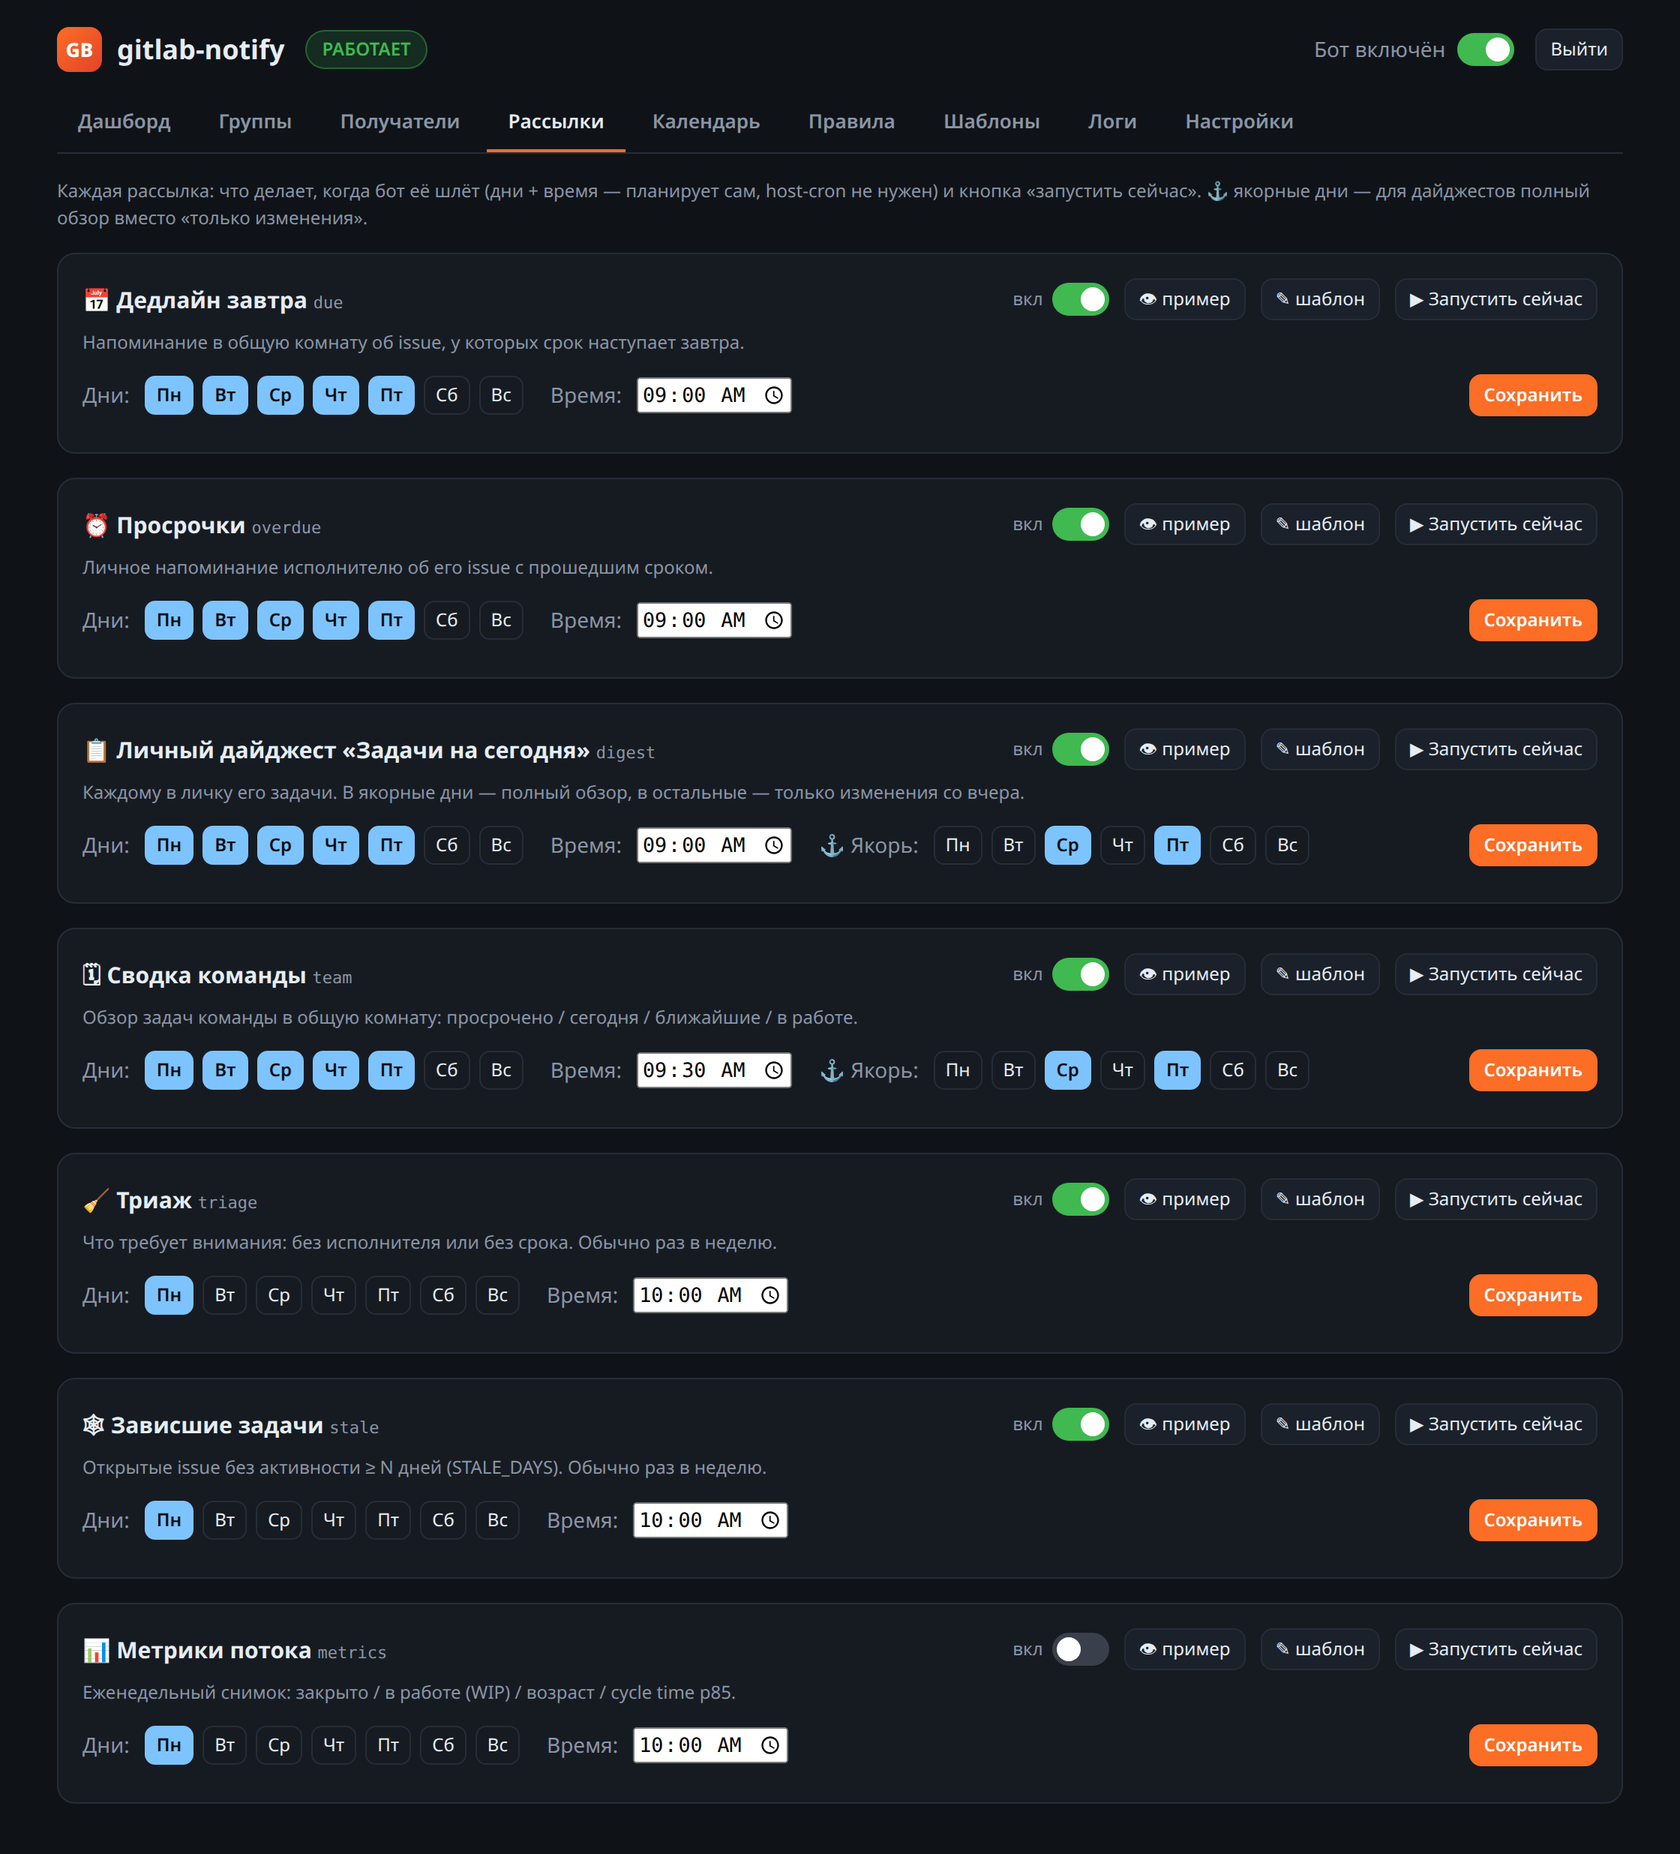
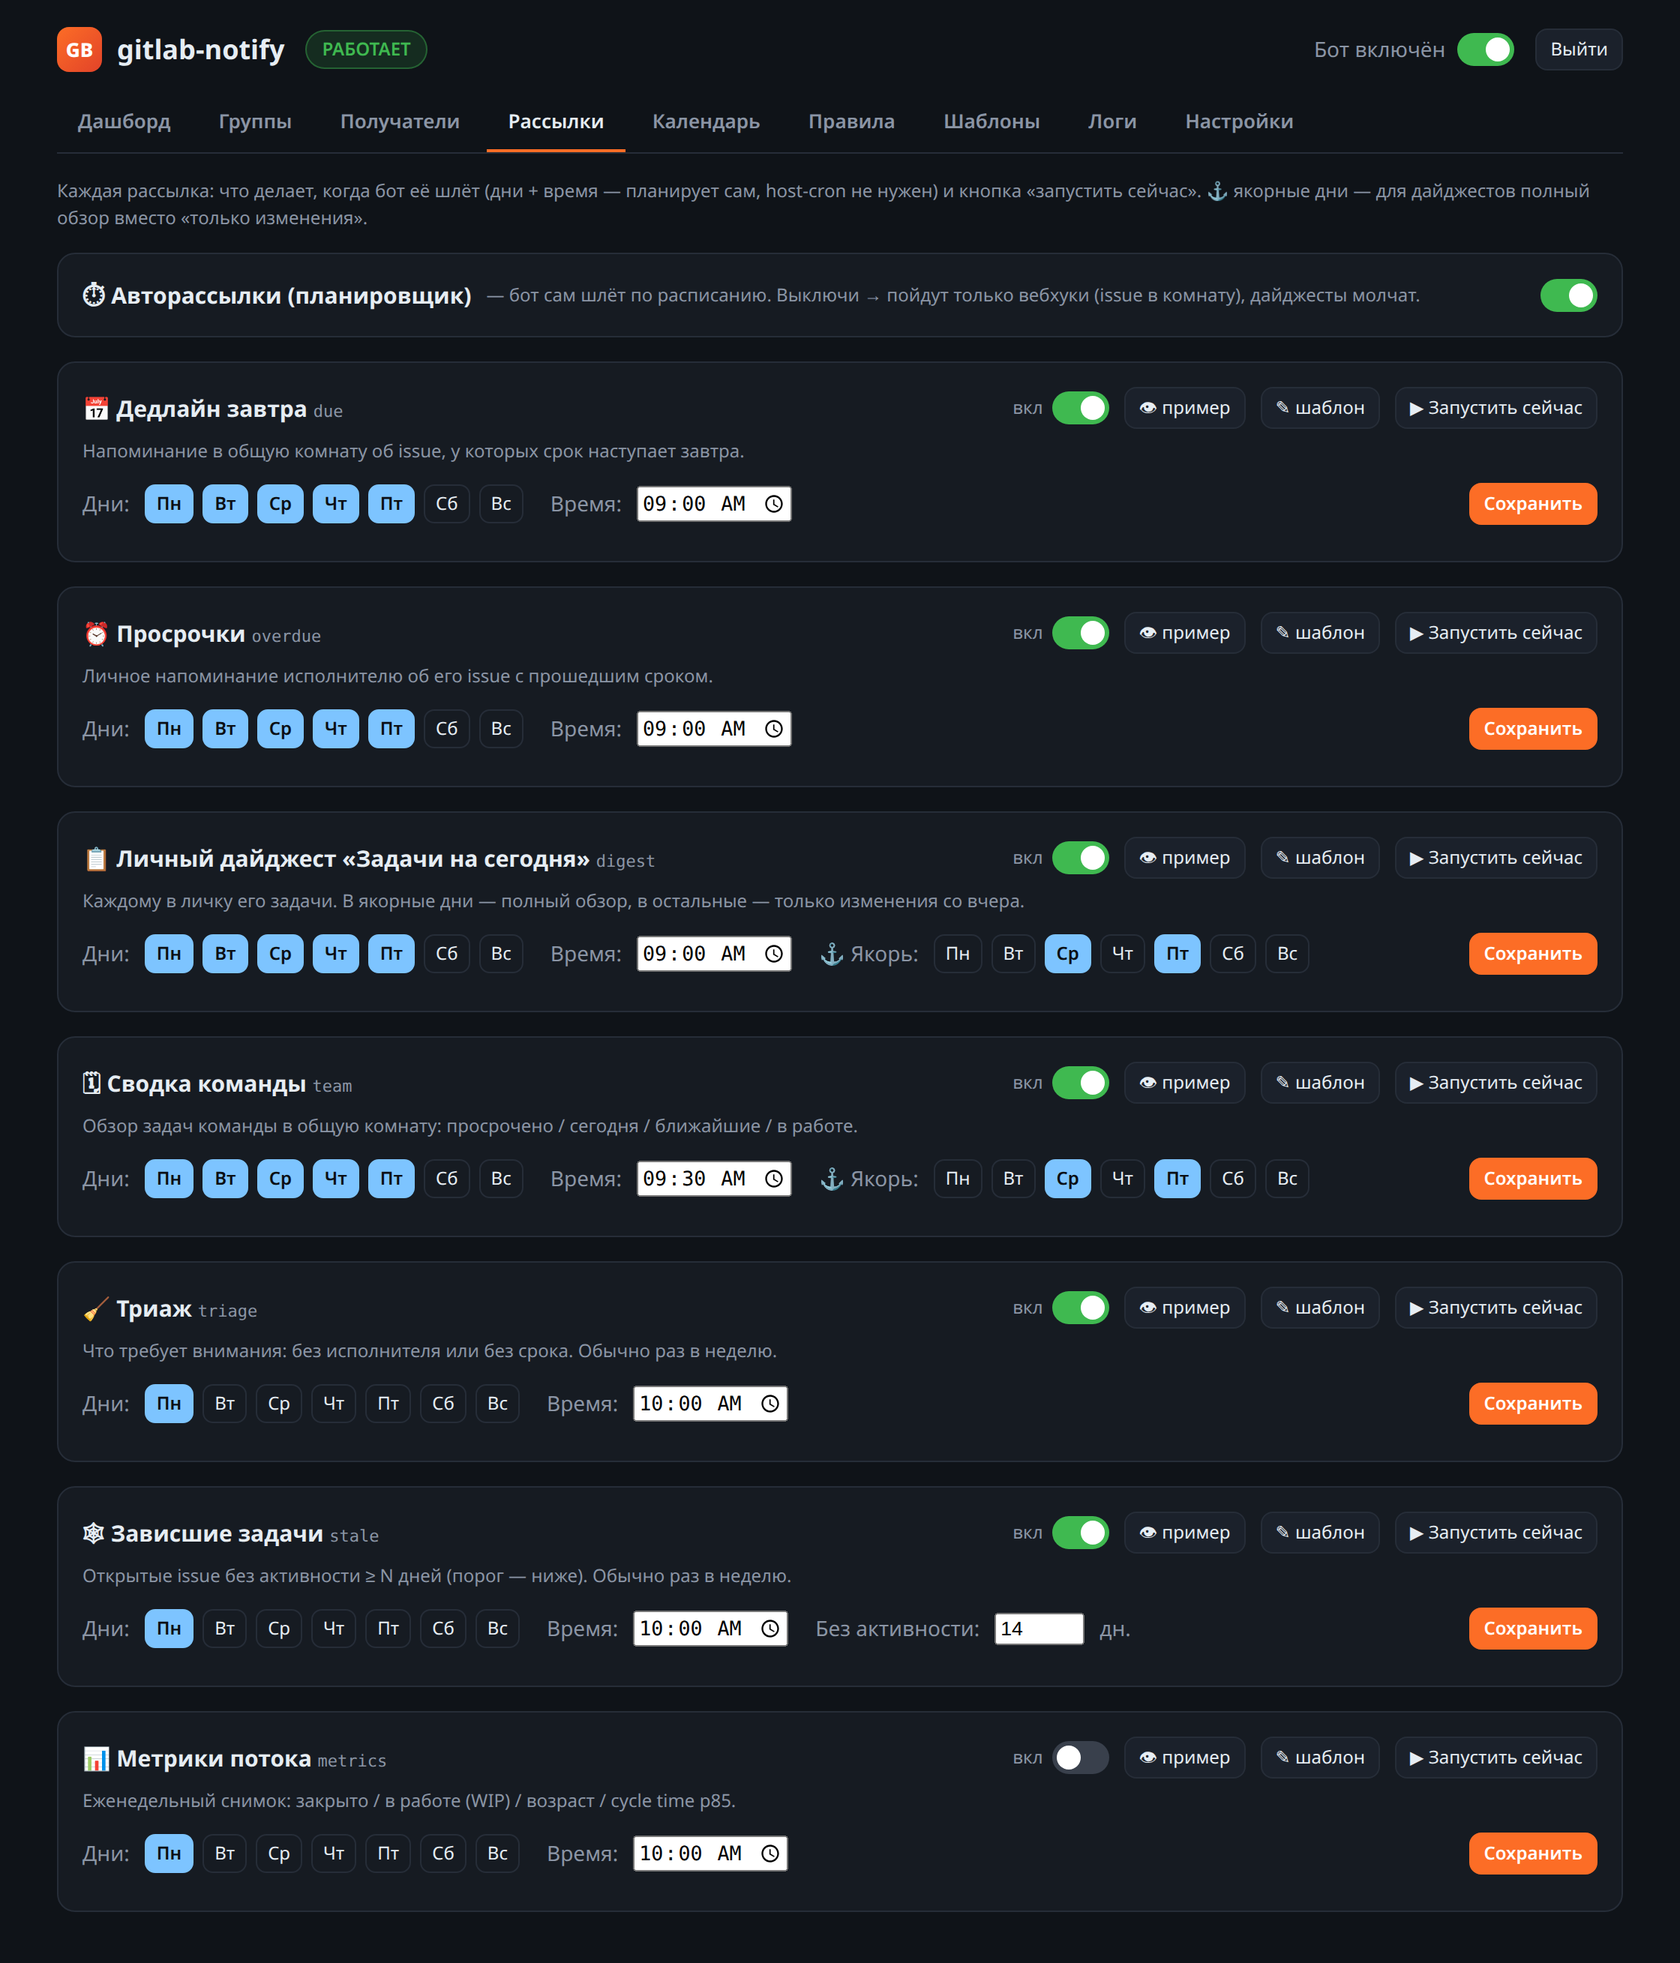
feat(gitlab-notify): минимизировать env — расписание/планировщик/stale в админку
env теперь = только bootstrap + инфра: ADMIN_PASSWORD, STATE_DB, BIND_ADDR, TZ,
LOG_LEVEL (+ опциональный one-time seed подключений). Всё остальное в БД/админке.

- DIGEST_ANCHOR_DAYS/WEEKLY_DAY/SKIP_WEEKENDS/HOLIDAYS — убраны (мёртвые seed'ы;
  расписание давно per-pass, праздники в «Календаре»). _schedule_defaults удалён,
  дефолты встроены в Settings.
- SCHEDULER_ENABLED → тумблер «Авторассылки» в админке (settings.scheduler_on);
  планировщик стартует всегда, тик уважает флаг + kill switch.
- STALE_DAYS → поле «Без активности N дн.» на карточке stale (pass.days_idle).

env-примеры и compose/UPGRADE приведены к новому минимуму.

diff --git a/services/gitlab-notify/admin_html.py b/services/gitlab-notify/admin_html.py
@@ -128,6 +128,10 @@ HTML = r"""<!doctype html>
   <!-- Рассылки (расписание + триггеры) -->
   <div class="view" data-v="sched">
     <p class="hint" style="margin:0 0 14px">Каждая рассылка: что делает, когда бот её шлёт (дни + время — планирует сам, host-cron не нужен) и кнопка «запустить сейчас». ⚓ якорные дни — для дайджестов полный обзор вместо «только изменения».</p>
+    <div class="card"><div class="row" style="margin:0"><b style="font-size:15px">⏱ Авторассылки (планировщик)</b>
+      <span class="mut" style="font-size:12px">— бот сам шлёт по расписанию. Выключи → пойдут только вебхуки (issue в комнату), дайджесты молчат.</span>
+      <span class="spacer"></span>
+      <span class="switch"><input type="checkbox" id="schedOn" onchange="api('/global','POST',{scheduler_on:this.checked}).then(()=>toast(this.checked?'Авторассылки включены':'Авторассылки выключены'))"><span class="slider"></span></span></div></div>
     <div id="passCards"></div>
   </div>
 
@@ -247,7 +251,7 @@ const PASS_INFO={
   digest:{icon:'📋',title:'Личный дайджест «Задачи на сегодня»',tpl:'digest_personal',desc:'Каждому в личку его задачи. В якорные дни — полный обзор, в остальные — только изменения со вчера.'},
   team:{icon:'🗓',title:'Сводка команды',tpl:'digest_team',desc:'Обзор задач команды в общую комнату: просрочено / сегодня / ближайшие / в работе.'},
   triage:{icon:'🧹',title:'Триаж',tpl:'triage',desc:'Что требует внимания: без исполнителя или без срока. Обычно раз в неделю.'},
-  stale:{icon:'🕸',title:'Зависшие задачи',tpl:'stale',desc:'Открытые issue без активности ≥ N дней (STALE_DAYS). Обычно раз в неделю.'},
+  stale:{icon:'🕸',title:'Зависшие задачи',tpl:'stale',desc:'Открытые issue без активности ≥ N дней (порог — ниже). Обычно раз в неделю.'},
   metrics:{icon:'📊',title:'Метрики потока',tpl:'metrics',desc:'Еженедельный снимок: закрыто / в работе (WIP) / возраст / cycle time p85.'},
 };
 let UF='all';
@@ -299,6 +303,7 @@ async function load(){
   $('statusPill').className='pill '+(s.enabled?'on':'off');
   $('statusPill').textContent=s.enabled?'РАБОТАЕТ':'ВЫКЛЮЧЕН';
   $('killSwitch').checked=s.enabled;
+  $('schedOn').checked=s.scheduler_on!==false;
   renderStats(s.stats);
   renderUserFilters();
   renderUsers();
@@ -491,6 +496,7 @@ function renderPasses(){
       <div class="row" style="margin:0"><span class="mut">Дни:</span><div class="days pDays">${miniDays(c.days||[],'d')}</div>
         <span class="mut" style="margin-left:8px">Время:</span><input type="time" class="pTime" value="${esc(c.time||'09:00')}">
         ${hasA?`<span class="mut" style="margin-left:8px" title="полный обзор вместо «только изменения»">⚓ Якорь:</span><div class="days pAnchor">${miniDays(c.anchor_days||[],'a')}</div>`:''}
+        ${p==='stale'?`<span class="mut" style="margin-left:8px">Без активности:</span><input type="number" class="pIdle" min="1" value="${c.days_idle||14}" style="width:60px"><span class="mut">дн.</span>`:''}
         <span class="spacer"></span><button class="primary sm" onclick="savePass('${p}',this)">Сохранить</button></div>
       <div class="pResult" style="margin-top:8px;font-size:13px"></div></div>`;
   }).join('');
@@ -501,6 +507,7 @@ async function savePass(p,btn){
     days:[...card.querySelectorAll('.pDays .day.sel')].map(e=>+e.dataset.d),
     time:card.querySelector('.pTime').value};
   const a=card.querySelector('.pAnchor');if(a)body.anchor_days=[...a.querySelectorAll('.day.sel')].map(e=>+e.dataset.a);
+  const idle=card.querySelector('.pIdle');if(idle)body.days_idle=+idle.value;
   await api('/pass/'+p,'POST',body);toast('Расписание «'+p+'» сохранено');
 }
 async function saveHolidays(){

diff --git a/services/gitlab-notify/admin.py b/services/gitlab-notify/admin.py
@@ -150,6 +150,7 @@ def create_admin_router(engine) -> APIRouter:
             })
         return {
             "enabled": g["enabled"],
+            "scheduler_on": g.get("scheduler_on", True),
             "schedule": {
                 "anchor_days": sorted(g["anchor_days"]),
                 "anchor_days_label": weekday_names(g["anchor_days"]),
@@ -186,7 +187,8 @@ def create_admin_router(engine) -> APIRouter:
     async def set_global(request: Request, admin_session: str | None = Cookie(default=None)):
         _guard(admin_session)
         patch = await request.json()
-        allowed = {"enabled", "anchor_days", "weekly_day", "skip_weekends", "holidays", "holidays_auto"}
+        allowed = {"enabled", "scheduler_on", "anchor_days", "weekly_day",
+                   "skip_weekends", "holidays", "holidays_auto"}
         return settings.update_global({k: v for k, v in patch.items() if k in allowed})
 
     @router.post("/api/pass/{name}")
@@ -204,6 +206,11 @@ def create_admin_router(engine) -> APIRouter:
             clean["anchor_days"] = sorted({int(d) for d in body["anchor_days"] if 0 <= int(d) <= 6})
         if "time" in body and isinstance(body["time"], str) and len(body["time"]) == 5:
             clean["time"] = body["time"]
+        if "days_idle" in body:                          # stale: N days of inactivity
+            try:
+                clean["days_idle"] = max(1, int(body["days_idle"]))
+            except (ValueError, TypeError):
+                pass
         return settings.update_pass(name, clean)
 
     @router.post("/api/user/{login}")

diff --git a/services/gitlab-notify/wiring.py b/services/gitlab-notify/wiring.py
@@ -23,16 +23,6 @@ from sources import Sources, seed_from_env
 HERE = Path(__file__).parent
 
 
-def _schedule_defaults() -> dict:
-    """Seed schedule from env; the admin panel overrides these in the DB."""
-    return {
-        "anchor_days": sorted(digests.parse_days(env("DIGEST_ANCHOR_DAYS", "wed,fri"))),
-        "weekly_day": digests.parse_day(env("DIGEST_WEEKLY_DAY", "mon")),
-        "skip_weekends": env("DIGEST_SKIP_WEEKENDS", "true").lower() != "false",
-        "holidays": [d.strip() for d in env("DIGEST_HOLIDAYS", "").split(",") if d.strip()],
-    }
-
-
 def build_engine() -> Engine:
     config = load_yaml(env("CONFIG_PATH", str(HERE / "config.yaml")))
 
@@ -45,8 +35,8 @@ def build_engine() -> Engine:
     # Runtime state/settings (admin panel) live in the state DB and override
     # config + templates + connection secrets (env is the fallback default).
     store = Store()
-    settings = Settings(store, defaults=_schedule_defaults())
-    settings.seed_conn()       # one-time: env -> DB; afterwards admin panel is authoritative
+    settings = Settings(store)   # schedule defaults are built-in; admin panel overrides
+    settings.seed_conn()         # one-time: env -> DB; afterwards admin panel is authoritative
     renderer = Renderer(HERE / "templates", identity=identity, store=store)
 
     # Matrix homeserver/token come from settings (DB; seeded from env once) so

diff --git a/services/gitlab-notify/settings.py b/services/gitlab-notify/settings.py
@@ -44,7 +44,7 @@ PASS_DEFAULTS = {
     "digest":  {"enabled": True,  "days": WORKDAYS, "time": "09:00", "anchor_days": [2, 4]},
     "team":    {"enabled": True,  "days": WORKDAYS, "time": "09:30", "anchor_days": [2, 4]},
     "triage":  {"enabled": True,  "days": [0],      "time": "10:00"},
-    "stale":   {"enabled": True,  "days": [0],      "time": "10:00"},
+    "stale":   {"enabled": True,  "days": [0],      "time": "10:00", "days_idle": 14},
     "metrics": {"enabled": False, "days": [0],      "time": "10:00"},
 }
 HAS_ANCHOR = ("digest", "team")
@@ -54,9 +54,10 @@ class Settings:
     def __init__(self, store, *, defaults: dict | None = None):
         self.store = store
         d = defaults or {}
-        # Baseline schedule (seeded from env/config at startup); DB overrides win.
+        # Baseline defaults; DB overrides (admin panel) win.
         self.defaults = {
-            "enabled": True,
+            "enabled": True,            # global kill switch (stops everything)
+            "scheduler_on": True,       # auto-digests on/off (webhooks still fire)
             "anchor_days": list(d.get("anchor_days", [2, 4])),
             "weekly_day": d.get("weekly_day", 0),
             "skip_weekends": d.get("skip_weekends", True),

diff --git a/services/gitlab-notify/cron.py b/services/gitlab-notify/cron.py
@@ -116,8 +116,8 @@ def run_one(engine, gl, group_id: str, store, name: str, *,
     if name == "triage":
         return digests.triage(engine, issues, store, **wk)
     if name == "stale":
-        return digests.stale(engine, gl, group_id, store,
-                             days=int(env("STALE_DAYS", str(digests.STALE_DAYS))), **wk)
+        days = int(engine.settings.pass_schedule("stale").get("days_idle", digests.STALE_DAYS))
+        return digests.stale(engine, gl, group_id, store, days=days, **wk)
     if name == "metrics":
         return digests.metrics(engine, gl, group_id, store, room=room, skey=skey)
     raise ValueError(f"unknown pass: {name}")
@@ -135,7 +135,8 @@ def main(argv: list[str]) -> None:
     wanted = DAILY if cmd == "all" else (cmd,)
     url = settings.conn_value("gitlab_url")
 
-    # Host-cron fallback (when SCHEDULER_ENABLED=false): run the requested passes
+    # Host-cron fallback (if you drive cron.py from host cron instead of the
+    # built-in scheduler): run the requested passes
     # for every configured source. The host cron schedule decides *when*; digests
     # send full on a pass's anchor day, a delta otherwise.
     try:

diff --git a/services/gitlab-notify/app.py b/services/gitlab-notify/app.py
@@ -27,16 +27,13 @@ engine = build_engine()   # webhook secret is read per-request from settings (DB
 
 @asynccontextmanager
 async def lifespan(app: FastAPI):
-    # Internal scheduler fires digests per their schedule (admin panel). Disable
-    # with SCHEDULER_ENABLED=false (e.g. if you'd rather drive cron.py from host).
-    task = stop = None
-    if env("SCHEDULER_ENABLED", "true").lower() != "false":
-        stop = asyncio.Event()
-        task = asyncio.create_task(run_scheduler(engine, stop))   # iterates sources itself
+    # Internal scheduler always runs; whether it actually fires is the admin
+    # "Авторассылки" toggle (settings.scheduler_on) + the global kill switch.
+    stop = asyncio.Event()
+    task = asyncio.create_task(run_scheduler(engine, stop))   # iterates sources itself
     yield
-    if task:
-        stop.set()
-        task.cancel()
+    stop.set()
+    task.cancel()
 
 
 app = FastAPI(title="gitlab-notify", lifespan=lifespan)

diff --git a/services/gitlab-notify/scheduler.py b/services/gitlab-notify/scheduler.py
@@ -44,8 +44,8 @@ def due_now(cfg: dict, weekday: int, now_min: int) -> bool:
 
 def tick(engine) -> None:
     s = engine.settings
-    if not s.enabled():                          # global kill switch
-        return
+    if not s.enabled() or not s.get_global().get("scheduler_on", True):
+        return                                   # kill switch / scheduler off (admin)
     now = dt.datetime.now()
     today = now.date()
     iso = today.isoformat()

diff --git a/deploy/UPGRADE.md b/deploy/UPGRADE.md
@@ -25,9 +25,8 @@ $EDITOR .env
 ```
 Добавить строки:
 ```
-MATRIX_ROOM=!hnt04WMGva5OGP9nw5vau3zDl5AvMZVg-BVLOSCSQug   # боевая «🔔 GitLab — infra»
+MATRIX_ROOM=!hnt04WMGva5OGP9nw5vau3zDl5AvMZVg-BVLOSCSQug   # сид первой группы → её комната
 BIND_ADDR=172.16.1.10        # чтобы /admin был доступен по LAN
-SCHEDULER_ENABLED=false      # на старте тихо: вебхуки да, авторассылок нет
 TZ=Europe/Moscow
 STATE_DB=/data/state.db
 ADMIN_PASSWORD=              # пока пусто (админка выключена); добавишь на шаге 5
